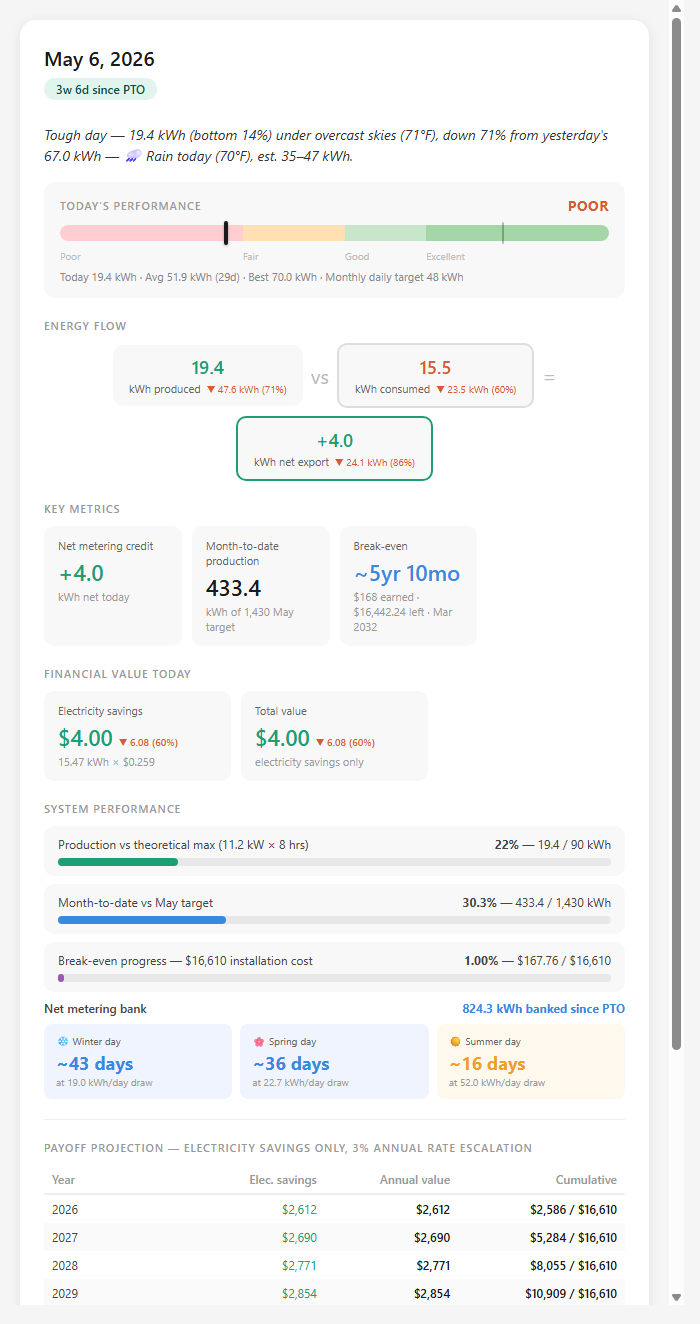
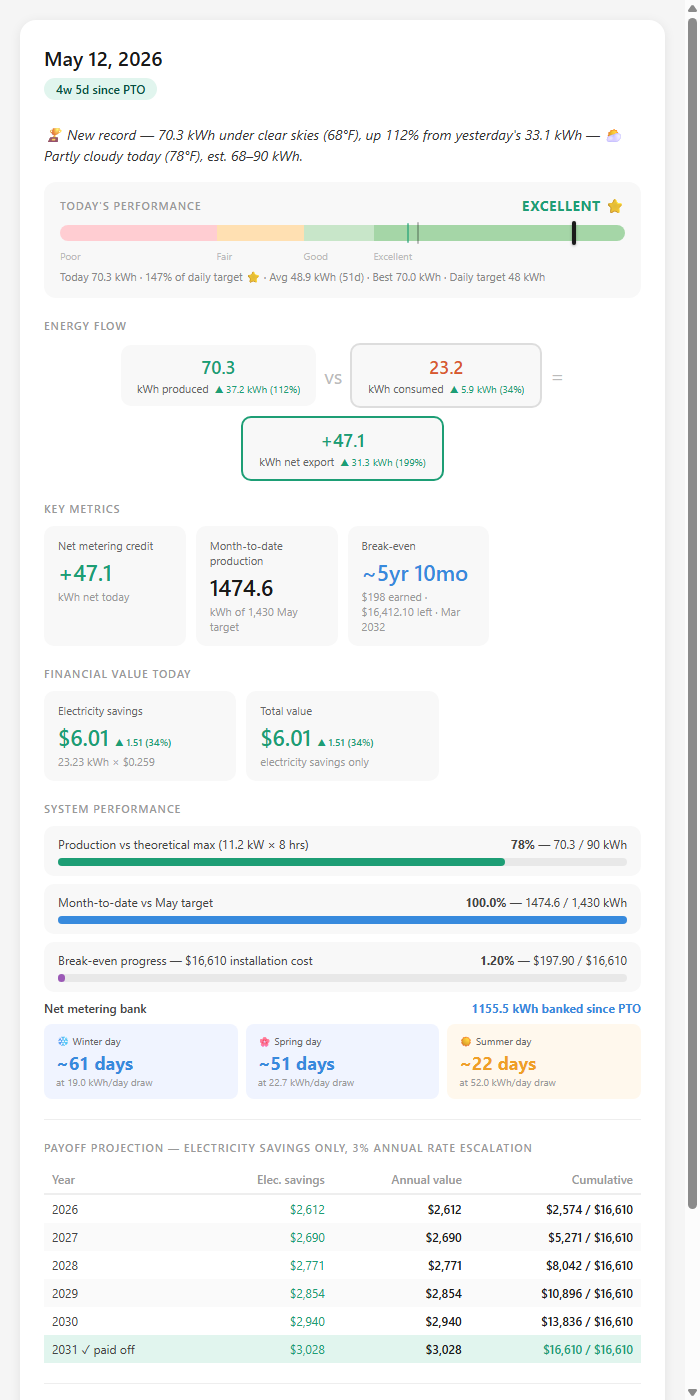
feat: show star and actual % when daily target is exceeded
When production >= 100% of daily target, the performance meter now:
- Expands the gauge scale so the needle keeps moving past the target mark
- Adds a green target tick at the 100% mark on the gauge
- Shows EXCELLENT ⭐ on the rating label
- Shows the actual percentage (e.g. 147% of daily target ⭐) in the sub line

Applies to both the HTML report and the email.

diff --git a/email_builder.py b/email_builder.py
@@ -198,6 +198,17 @@ def build_email(target_date: str) -> str:
     else:
         rating, rating_color = "POOR", C_RED
 
+    # Gauge scale and needle — expands past 100% target when over target
+    over_target       = ratio >= 1.0
+    gauge_scale       = max(daily_target * 1.35, produced * 1.1) if daily_target else (produced * 1.1 or 1)
+    gauge_needle_pct  = min(produced / gauge_scale * 100, 100) if gauge_scale else 0
+    gauge_z_poor_w    = round(0.45 * daily_target / gauge_scale * 100, 1)
+    gauge_z_fair_w    = round(0.70 * daily_target / gauge_scale * 100, 1) - gauge_z_poor_w
+    gauge_z_good_w    = round(0.90 * daily_target / gauge_scale * 100, 1) - gauge_z_poor_w - gauge_z_fair_w
+    gauge_z_excel_w   = round(100 - gauge_z_poor_w - gauge_z_fair_w - gauge_z_good_w, 1)
+    rating_display    = f"{rating}{'  ⭐' if over_target else ''}"
+    target_pct_note   = f" &nbsp;·&nbsp; {round(ratio * 100)}% of daily target ⭐" if over_target else ""
+
     # Historical context line + rank
     conn = database.get_conn()
     hist = conn.execute(
@@ -311,22 +322,22 @@ def build_email(target_date: str) -> str:
       <table width="100%" cellpadding="0" cellspacing="0" border="0" style="margin-bottom:10px">
         <tr>
           <td style="font-size:11px;font-weight:600;text-transform:uppercase;letter-spacing:0.08em;color:#999">Today's performance</td>
-          <td align="right" style="font-size:14px;font-weight:700;color:{rating_color};letter-spacing:0.04em">{rating}</td>
+          <td align="right" style="font-size:14px;font-weight:700;color:{rating_color};letter-spacing:0.04em">{rating_display}</td>
         </tr>
       </table>
       <!-- Segmented colour bar -->
       <table width="100%" cellpadding="0" cellspacing="0" border="0" style="border-radius:6px;overflow:hidden;margin-bottom:4px">
         <tr>
-          <td width="33%" style="height:12px;background:#FFCDD2;line-height:0;font-size:0">&nbsp;</td>
-          <td width="19%" style="height:12px;background:#FFE0B2;line-height:0;font-size:0">&nbsp;</td>
-          <td width="14%" style="height:12px;background:#C8E6C9;line-height:0;font-size:0">&nbsp;</td>
-          <td width="34%" style="height:12px;background:#A5D6A7;line-height:0;font-size:0">&nbsp;</td>
+          <td width="{gauge_z_poor_w:.1f}%" style="height:12px;background:#FFCDD2;line-height:0;font-size:0">&nbsp;</td>
+          <td width="{gauge_z_fair_w:.1f}%" style="height:12px;background:#FFE0B2;line-height:0;font-size:0">&nbsp;</td>
+          <td width="{gauge_z_good_w:.1f}%" style="height:12px;background:#C8E6C9;line-height:0;font-size:0">&nbsp;</td>
+          <td width="{gauge_z_excel_w:.1f}%" style="height:12px;background:#A5D6A7;line-height:0;font-size:0">&nbsp;</td>
         </tr>
       </table>
       <!-- Needle indicator as text marker -->
       <table width="100%" cellpadding="0" cellspacing="0" border="0">
         <tr>
-          <td width="{max(perf_pct - 4, 0):.0f}%" style="font-size:0">&nbsp;</td>
+          <td width="{max(gauge_needle_pct - 4, 0):.0f}%" style="font-size:0">&nbsp;</td>
           <td style="font-size:12px;color:#1a1a1a;font-weight:700;white-space:nowrap">&#9650; {produced:.1f} kWh</td>
         </tr>
       </table>
@@ -338,7 +349,7 @@ def build_email(target_date: str) -> str:
           <td style="font-size:10px;color:#bbb">Excellent</td>
         </tr>
       </table>
-      <p style="font-size:11px;color:#888;margin:6px 0 0">Today {produced:.1f} kWh &nbsp;·&nbsp; Monthly daily target {monthly_target//30:.0f} kWh{hist_line}</p>
+      <p style="font-size:11px;color:#888;margin:6px 0 0">Today {produced:.1f} kWh{target_pct_note} &nbsp;·&nbsp; Daily target {monthly_target//30:.0f} kWh{hist_line}</p>
     </td></tr>
   </table>
 

diff --git a/report_builder.py b/report_builder.py
@@ -97,23 +97,26 @@ def _perf_meter(target_date: str, produced: float, monthly_target: int) -> dict:
     else:
         rating, rating_color = "POOR", "#D85A30"
 
-    # Gauge scale: 0 → daily_target × 1.35 (gives breathing room above 100%)
-    scale_max = daily_target * 1.35
-    needle_pct = min(produced / scale_max * 100, 100) if scale_max else 0
-    avg_pct = min(hist_avg / scale_max * 100, 100) if hist_avg and scale_max else None
-    # Zone boundaries as % of scale_max
-    # Poor: 0–45%, Fair: 45–70%, Good: 70–90%, Excellent: 90–100%
-    z_poor  = round(0.45 / 1.35 * 100, 1)   # 33.3%
-    z_fair  = round(0.70 / 1.35 * 100, 1)   # 51.9%
-    z_good  = round(0.90 / 1.35 * 100, 1)   # 66.7%
-    # excellent fills the rest
+    # Gauge scale: expands to fit production when over target, otherwise daily_target × 1.35
+    over_target = ratio >= 1.0
+    scale_max   = max(daily_target * 1.35, produced * 1.1) if daily_target else (produced * 1.1 or 1)
+    needle_pct  = produced / scale_max * 100 if scale_max else 0
+    avg_pct     = hist_avg / scale_max * 100 if hist_avg and scale_max else None
+    # Zone boundaries as % of scale_max (dynamic so zones stay proportional)
+    z_poor  = round(0.45 * daily_target / scale_max * 100, 1)
+    z_fair  = round(0.70 * daily_target / scale_max * 100, 1)
+    z_good  = round(0.90 * daily_target / scale_max * 100, 1)
+    # 100% target line position on gauge
+    target_pct = round(daily_target / scale_max * 100, 1)
 
     sub_parts = [f"Today {produced:.1f} kWh"]
+    if over_target:
+        sub_parts.append(f"{round(ratio * 100)}% of daily target ⭐")
     if hist_avg is not None:
         sub_parts.append(f"Avg {hist_avg:.1f} kWh ({hist_count}d)")
     if hist_best is not None:
         sub_parts.append(f"Best {hist_best:.1f} kWh")
-    sub_parts.append(f"Monthly daily target {daily_target:.0f} kWh")
+    sub_parts.append(f"Daily target {daily_target:.0f} kWh")
 
     return {
         "rating": rating,
@@ -123,6 +126,8 @@ def _perf_meter(target_date: str, produced: float, monthly_target: int) -> dict:
         "z_poor": z_poor,
         "z_fair": z_fair,
         "z_good": z_good,
+        "target_pct": target_pct,
+        "over_target": over_target,
         "sub": " · ".join(sub_parts),
         "hist_count": hist_count,
     }
@@ -469,7 +474,7 @@ def build_report(target_date: str) -> Path:
   <div class="perf-meter">
     <div class="perf-header">
       <span class="perf-section-lbl">Today's performance</span>
-      <span class="perf-rating" style="color:{perf['rating_color']}">{perf['rating']}</span>
+      <span class="perf-rating" style="color:{perf['rating_color']}">{perf['rating']}{'  ⭐' if perf['over_target'] else ''}</span>
     </div>
     <div class="perf-gauge">
       <!-- colour zones -->
@@ -477,6 +482,8 @@ def build_report(target_date: str) -> Path:
       <div class="perf-zone" style="left:{perf['z_poor']}%;width:{perf['z_fair'] - perf['z_poor']}%;background:#FFE0B2"></div>
       <div class="perf-zone" style="left:{perf['z_fair']}%;width:{perf['z_good'] - perf['z_fair']}%;background:#C8E6C9"></div>
       <div class="perf-zone" style="left:{perf['z_good']}%;width:{100 - perf['z_good']}%;background:#A5D6A7;border-radius:0 8px 8px 0"></div>
+      <!-- 100% target tick -->
+      <div style="position:absolute;left:{perf['target_pct']}%;top:-2px;bottom:-2px;width:2px;background:#1D9E75;transform:translateX(-50%);border-radius:1px;opacity:0.6" title="100% daily target"></div>
       <!-- historical avg tick -->
       {avg_tick_html}
       <!-- today's needle -->

diff --git a/README.md b/README.md
@@ -13,7 +13,7 @@ Sent every morning at 5am covering the previous day.
 
 - **Headline summary** — punchy one-sentence digest: today's rating + all-time percentile + weather context + % change vs yesterday + tomorrow's forecast. Good days show "top X%"; below-average days show "bottom X%" (e.g. *"Tough day — 19.4 kWh (bottom 14%) under overcast skies (71°F), down 71% from yesterday's 67.0 kWh — 🌧 Rain today (70°F), est. 35–47 kWh."*)
 - **Weather** — daily high/low and conditions in the top-right corner (Open-Meteo, no key required)
-- **Performance meter** — colour-banded gauge rating production as Poor / Fair / Good / Excellent vs. monthly daily target
+- **Performance meter** — colour-banded gauge rating production as Poor / Fair / Good / Excellent vs. monthly daily target. When production exceeds 100% of the daily target, the gauge scale expands so the needle keeps moving, the rating shows ⭐, and the sub-line shows the actual percentage (e.g. "147% of daily target ⭐")
 - **Energy flow** — produced vs. consumed with net export/import
 - **Change indicators** — every metric shows ▲/▼ vs. the previous day, colour-coded so "up" is always good (more consumption = red, more production = green)
 - **Key metrics** — net metering credit, month-to-date production, break-even timeline
